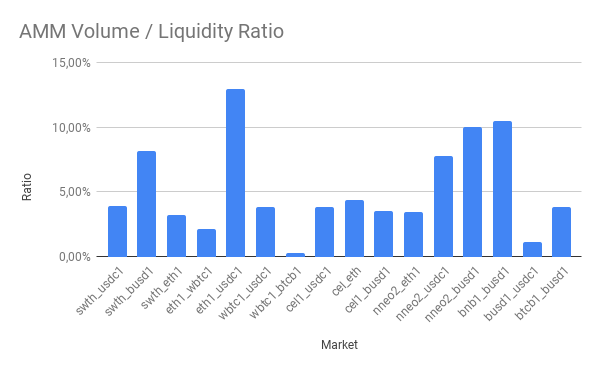
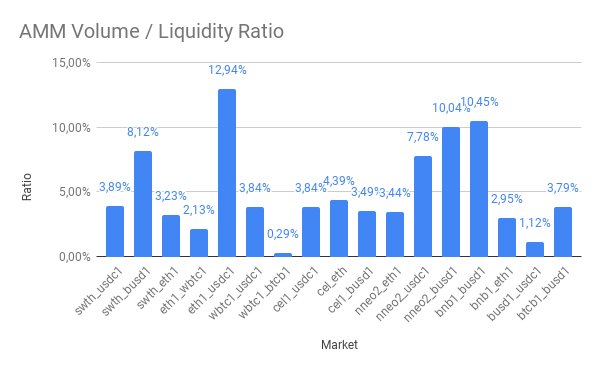
Added chart explanations

diff --git a/TIP-16/README.md b/TIP-16/README.md
@@ -40,6 +40,7 @@ I am open for feedback and suggestions.
 # Pool weight adjustment
 
 ![](https://github.com/Mai-Te-Pora/proposals/blob/main/TIP-16/diagrams/Demex%20Spot%20Volume.png?raw=true)
+![](https://github.com/Mai-Te-Pora/proposals/blob/main/TIP-16/diagrams/Liquidity%20Total.png?raw=true)
 
 The following table shows each market, and their total volume share. This indicates important markets for Demex. As a help the current boost and the liquidity is added to the table.
 An important ratio is the Volume per Liquidity, this indicates how much Volume($) was generated per Liquidity($). A high ratio may say that this market had could make way more volume if more liquidity would have been provided.
@@ -68,6 +69,15 @@ Low ratios may say that this market would have done almost the same volume with 
 | NEW Partnerships | -              | -      | -     | -          |                  | 5         | -        |
 |                  | $37.638.287,28 |        | 100   |            |                  | 100       |          |
 
+
+![](https://github.com/Mai-Te-Pora/proposals/blob/main/TIP-16/diagrams/AMM%20Volume%20_%20Liquidity%20Ratio.png?raw=true)
+This diagram shows the ratio between the effective AMM volume divided by the liquidity in USD. For example the pair swth_usdc1 has a ratio of 3.89%.
+The ratio tells how much volume was produced by the available liquidity over this time. The total AMM volume for swth_usdc1 (SUM Daily Volume) was $6.495.149,00, the total available liquidity(SUM Daily Liquidity Value) was $166.806.223,99.
+With other words the ratio is the daily average relative volume against the available liquidity. The higher the ratio the more volume the pair produced.
+![](https://github.com/Mai-Te-Pora/proposals/blob/main/TIP-16/diagrams/AMM%20Volume%20_%20Liquidity%20Ratio%20per%20Boost%20Weight.png?raw=true)
+This diagram takes the boost weight into consideration. It simply divides the ratio by the current pool weight. The result says how much volume was produced on daily average per boost weight.
+A high ratio indicates that this pair could be doing way more daily volume if there would be more liquidity in the pool.
+A low number on the other hand indicates that the pool is performing not that well. The reason has to be investigated.
 
 ## Explanation
 
